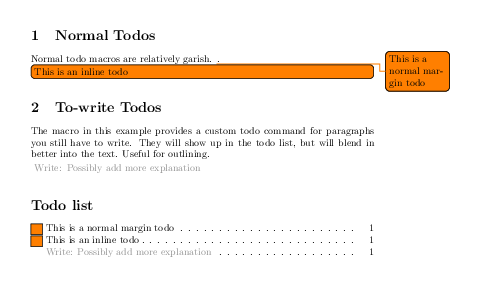
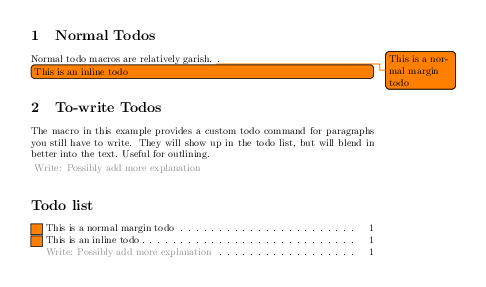
Show how to adjust marginpar width

diff --git a/towrite-macro.tex b/towrite-macro.tex
@@ -9,6 +9,9 @@
     \todo[inline,color=white,bordercolor=white]{\textcolor{gray}{Write: #1}}%
 }
 
+% Adjust margin paragraph width, if necessary
+\setlength{\marginparwidth}{2.5cm}
+
 \begin{document}
 
 \section{Normal Todos}
